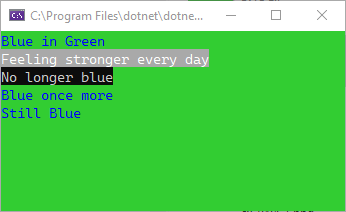
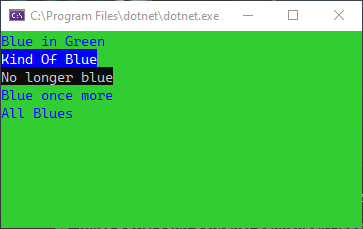
Doc and example updates

Changed region(s): [[0.0, 0.0, 1.0, 1.0], [0.9249, 0.0566, 0.9538, 0.0849], [0.6647, 0.0566, 0.6936, 0.0849]]

diff --git a/Strick.PlusCon.Test/DocSamples.cs b/Strick.PlusCon.Test/DocSamples.cs
@@ -10,53 +10,67 @@ internal static class DocSamples
 {
 	static DocSamples()
 	{
-		samples = new List<DocSample>()
+		Samples = new List<DocSample>()
 		{
-			new DocSample("wwl1", "Example - W/WL (1)", ex_wwl_1),
-			new DocSample("wwl2", "Example - W/WL (2)", ex_wwl_2),
-			new DocSample("wwl3", "Example - W/WL (3)", ex_wwl_3),
-			new DocSample("wwl4", "Example - W/WL (4)", ex_wwl_4),
-			new DocSample("cls1", "Example - CLS (1)", ex_cls_1),
-			new DocSample("cls2", "Example - CLS (2)", ex_cls_2),
-			new DocSample("colorize1", "Example - Colorize (1)", ex_colorize_1),
-			new DocSample("colorize2", "Example - Colorize (2)", ex_colorize_2),
-			new DocSample("underline1", "Example - Underline", ex_underline_1),
-			new DocSample("reverse1", "Example - Reverse", ex_reverse_1),
-			new DocSample("gradient1", "Example - Gradient", ex_gradient_1),
-			new DocSample("combo1", "Example - Combinations", ex_combo_1),
-			new DocSample("notes1", "Example - Other Notes", ex_notes_1),
+			new DocSample("wwl1", "Example - W/WL (1)", Ex_wwl_1),
+			new DocSample("wwl2", "Example - W/WL (2)", Ex_wwl_2),
+			new DocSample("wwl3", "Example - W/WL (3)", Ex_wwl_3),
+			new DocSample("wwl4", "Example - W/WL (4)", Ex_wwl_4),
+			new DocSample("cls1", "Example - CLS (1)", Ex_cls_1),
+			new DocSample("cls2", "Example - CLS (2)", Ex_cls_2),
+			new DocSample("colorize1", "Example - Colorize (1)", Ex_colorize_1),
+			new DocSample("colorize2", "Example - Colorize (2)", Ex_colorize_2),
+			new DocSample("underline1", "Example - Underline", Ex_underline_1),
+			new DocSample("reverse1", "Example - Reverse", Ex_reverse_1),
+			new DocSample("gradient1", "Example - Gradient", Ex_gradient_1),
+			new DocSample("combo1", "Example - Combinations", Ex_combo_1),
+			new DocSample("notes1", "Example - Other Notes", Ex_notes_1),
 		};
 	}
 
 
-	private static List<DocSample> samples = new List<DocSample>();
+	internal static List<DocSample> Samples;
 
-	private static Color ErrColor = Color.Red;
+	private static readonly Color ErrColor = Color.Red;
+
+	private static readonly Size SampleSize = new Size(43, 10);
 
 	public static void Show(bool wait = false) => Show((Size?)null, wait);
 
 	public static void Show(Size? conSz = null, bool wait = false)
 	{
+		Size? sz = null;
 		if (conSz.HasValue)
-		{ SetConsoleSize(conSz.Value); }
+		{
+			sz = GetConsoleSize();
+			SetConsoleSize(conSz.Value);
+		}
 
-		foreach (DocSample sample in samples)
+		foreach (DocSample sample in Samples)
 		{
 			sample.Show(wait, wait);
 		}
+
+		if (sz != null)
+		{ SetConsoleSize(sz.Value); }
 	}
 
 	public static void Show(string sampleName, bool wait = false)
 	{
-		if(string.IsNullOrWhiteSpace(sampleName))
+		if (string.IsNullOrWhiteSpace(sampleName))
 		{
 			WL("Come on, dude! Give me something to work with here. I need the name of a doc sample.", ErrColor);
 			return;
 		}
 
-		var ex = samples.Where(s => s.Name.Equals(sampleName, StringComparison.OrdinalIgnoreCase)).FirstOrDefault();
+		var ex = Samples.Where(s => s.Name.Equals(sampleName, StringComparison.OrdinalIgnoreCase)).FirstOrDefault();
 		if (ex != null)
-		{ ex.Show(wait, wait); }
+		{
+			var sz = GetConsoleSize();
+			SetConsoleSize(SampleSize);
+			ex.Show(wait, wait);
+			SetConsoleSize(sz);
+		}
 		else
 		{ WL($"The doc sample [{sampleName}] was not found.", ErrColor, null, ErrColor); }
 	}
@@ -67,17 +81,19 @@ internal static class DocSamples
 		Console.SetBufferSize(conSz.Width, conSz.Height);
 	}
 
+	private static Size GetConsoleSize() => new Size(Console.WindowWidth, Console.WindowHeight);
+
 
 	#region EXAMPLE FUNCTIONS
 
-	private static void ex_wwl_1()
+	private static void Ex_wwl_1()
 	{
 		//Example ** W/WL 1
 		WL("Hello World!", Color.Red);
 		WL("Hello World!", Color.Red, Color.White);
 	}
 
-	private static void ex_wwl_2()
+	private static void Ex_wwl_2()
 	{
 		//Example ** W/WL 2
 		WL("Hello [World]!", Color.Red);
@@ -85,41 +101,41 @@ internal static class DocSamples
 
 	}
 
-	private static void ex_wwl_3()
+	private static void Ex_wwl_3()
 	{
 		//Example ** W/WL 3
 		WL("Hello [World]!", Color.Red, null, true);
 		WL("Hello [World]!", Color.Red, Color.White, true);
 	}
 
-	private static void ex_wwl_4()
+	private static void Ex_wwl_4()
 	{
 		//Example ** W/WL 4
 		WL("Hello [World]!", Color.Red, null, Color.Red);
 		WL("Hello [World]!", Color.Red, Color.White, Color.Blue, Color.White);
 	}
 
-	private static void ex_cls_1()
+	private static void Ex_cls_1()
 	{
 		CLS(Color.LimeGreen, Color.Blue);
 		WL("Blue in Green");
 	}
 
-	private static void ex_cls_2()
+	private static void Ex_cls_2()
 	{
 		CLS(Color.LimeGreen, Color.Blue);
 		WL("Blue in Green");
 		//colors reset by the line below
-		WL("Feeling stronger every day", Color.White, Color.DarkGray);
+		WL("Kind Of Blue", Color.White, Color.Blue);
 		//back to default console colors here
 		WL("No longer blue");
 		//set to desired colors again
 		W(EscapeCodes.GetBackColorSequence(Color.LimeGreen) + EscapeCodes.GetForeColorSequence(Color.Blue));
 		WL("Blue once more");
-		WL("Still Blue");
+		WL("All Blues");
 	}
 
-	private static void ex_colorize_1()
+	private static void Ex_colorize_1()
 	{
 		//Example **COLORIZE 1
 		string colorized = "foo".Colorize(Color.Red);
@@ -129,7 +145,7 @@ internal static class DocSamples
 		WL("Hello World!".Colorize(Color.Red, Color.White));
 	}
 
-	private static void ex_colorize_2()
+	private static void Ex_colorize_2()
 	{
 		//Example **COLORIZE 2
 		string wrapped = "foo".Colorize(Color.Red, null, "**[", "]**");
@@ -141,7 +157,7 @@ internal static class DocSamples
 	}
 
 
-	private static void ex_underline_1()
+	private static void Ex_underline_1()
 	{
 		//Example **UNDERLINE
 		string underlined = "foo".Underline();
@@ -149,7 +165,7 @@ internal static class DocSamples
 		WL("Hello World!".Underline());
 	}
 
-	private static void ex_reverse_1()
+	private static void Ex_reverse_1()
 	{
 		//Example **REVERSE
 		string reversed = "foo".Reverse();
@@ -157,7 +173,7 @@ internal static class DocSamples
 		WL("Hello World!".Reverse());
 	}
 
-	private static void ex_gradient_1()
+	private static void Ex_gradient_1()
 	{
 		//Example **GRADIENT
 		string grad = "foo-bar".Gradient(Color.White, Color.BlueViolet);
@@ -169,7 +185,7 @@ internal static class DocSamples
 		WL("-- ** on the beach ** --".Gradient(Color.SandyBrown, Color.FromArgb(3, 240, 165), Color.FromArgb(145, 193, 255)));
 	}
 
-	private static void ex_combo_1()
+	private static void Ex_combo_1()
 	{
 		//Example **COMBINATIONS
 		WL($"Hello World!".Underline(), Color.Red);
@@ -180,7 +196,7 @@ internal static class DocSamples
 		WL("-- ** on the beach ** --".Gradient(Color.SandyBrown, Color.FromArgb(3, 240, 165), Color.FromArgb(145, 193, 255)).Underline());
 	}
 
-	private static void ex_notes_1()
+	private static void Ex_notes_1()
 	{
 		//Example **OTHER NOTES
 		Console.ForegroundColor = ConsoleColor.Red;
@@ -195,7 +211,7 @@ internal static class DocSamples
 	#endregion EXAMPLE FUNCTIONS
 
 
-	private class DocSample
+	internal class DocSample
 	{
 		public DocSample(string name, string header, Action action)
 		{
@@ -205,8 +221,8 @@ internal static class DocSamples
 		}
 
 
-		private static Color docHdFore = Color.White;
-		private static Color docHdBack = Color.Blue;
+		private static readonly Color docHdFore = Color.White;
+		private static readonly Color docHdBack = Color.Blue;
 
 
 		public string Name { get; }

diff --git a/README.md b/README.md
@@ -82,13 +82,13 @@ To set the colors back to the desired colors, you can send a color escape sequen
 CLS(Color.LimeGreen, Color.Blue);
 WL("Blue in Green");
 //colors reset by the line below
-WL("Feeling stronger every day", Color.White, Color.DarkGray);
+WL("Kind Of Blue", Color.White, Color.Blue);
 //back to default console colors here
 WL("No longer blue");
 //set to desired colors again
 W(EscapeCodes.GetBackColorSequence(Color.LimeGreen) + EscapeCodes.GetForeColorSequence(Color.Blue));
 WL("Blue once more");
-WL("Still Blue");
+WL("All Blues");
 ```
 
 ![Example - CLS 2](https://raw.githubusercontent.com/StrickTechnologies/Strick.PlusCon/master/SampleImages/ex_cls_2.png)
